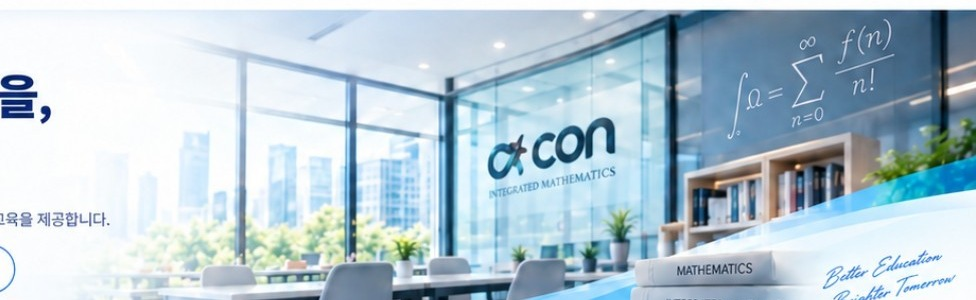
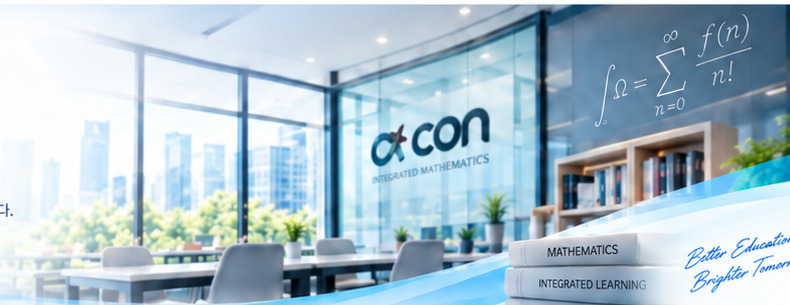
Add files via upload

diff --git a/style.css b/style.css
@@ -6,9 +6,9 @@ a{text-decoration:none;color:inherit}
 .wrap{width:min(1440px,92%);margin:0 auto}
 
 .topbar{position:sticky;top:0;z-index:100;background:rgba(255,255,255,.98);border-bottom:1px solid #e6edf6}
-.nav{height:72px;display:flex;align-items:center;gap:28px}
-.logo{width:170px;flex:0 0 auto}
-.logo img{width:100%;height:auto}
+.nav{min-height:78px;display:flex;align-items:center;gap:22px}
+.logo{display:flex;align-items:center;flex:0 0 auto;min-width:175px}
+.logo img{height:58px;width:auto;max-width:100%;object-fit:contain}
 .menu{margin-left:auto;display:flex;align-items:center;gap:34px;font-size:15px;font-weight:800;white-space:nowrap}
 .menu a:hover{color:#0b82e9}
 .account{display:flex;gap:10px;margin-left:18px}
@@ -19,10 +19,8 @@ a{text-decoration:none;color:inherit}
 .btn.ghost:hover,.btn.outline:hover{background:#f0f8ff}
 
 .hero{position:relative;min-height:355px;overflow:hidden;background:#f9fcff}
-.hero-photo{position:absolute;right:0;top:0;width:70%;height:100%;background:
-linear-gradient(90deg,#fff 0%,rgba(255,255,255,.86) 18%,rgba(255,255,255,.28) 52%,rgba(255,255,255,.02) 100%),
-url("hero-classroom.jpg") center/cover no-repeat}
-.hero-inner{position:relative;z-index:3;padding-top:28px}
+.hero-photo{position:absolute;right:0;top:0;width:69%;height:100%;background:linear-gradient(90deg,#fff 0%,rgba(255,255,255,.88) 15%,rgba(255,255,255,.32) 45%,rgba(255,255,255,.04) 100%),url("hero-classroom.jpg") center center/cover no-repeat}
+.hero-inner{position:relative;z-index:3;padding-top:28px;padding-bottom:58px}
 .hero-copy{max-width:650px}
 .eyebrow{margin:0 0 12px;color:#0a5bb3;font-size:18px;font-weight:800}
 .hero h1{margin:0;font-size:52px;line-height:1.13;letter-spacing:-.05em;color:#0b3279}
@@ -53,35 +51,35 @@ url("hero-classroom.jpg") center/cover no-repeat}
 .more span{font-size:18px;line-height:1}
 
 .card-grid{display:grid;grid-template-columns:repeat(4,1fr);gap:16px}
-.card{position:relative;border:1px solid #dce7f2;background:#fff;border-radius:10px;overflow:hidden;box-shadow:0 6px 18px rgba(22,66,120,.05)}
-.card img{width:100%;height:90px;object-fit:cover}
-.card-body{position:relative;padding:12px 16px 14px;min-height:92px}
-.card h3{margin:0 0 6px;font-size:18px}
+.card{position:relative;border:1px solid #dce7f2;background:#fff;border-radius:14px;overflow:hidden;box-shadow:0 6px 18px rgba(22,66,120,.05);display:flex;flex-direction:column}
+.card img{width:100%;height:112px;object-fit:cover;object-position:center center;background:#eef6ff}
+.card-body{position:relative;padding:14px 16px 16px;min-height:108px}
+.card h3{margin:0 0 6px;font-size:18px;color:#113b7c}
 .card p{margin:0;color:#5f7393;font-size:13px;line-height:1.45}
 .circle-arrow{position:absolute;right:13px;bottom:15px;width:31px;height:31px;border:1px solid #6fb9f5;color:#0a78db;border-radius:50%;display:grid;place-items:center;font-size:22px}
-.partner img{height:120px}
-.subject-badge{position:absolute;left:16px;top:83px;width:54px;height:54px;border-radius:50%;display:grid;place-items:center;color:#fff;font-weight:900;border:5px solid #fff;box-shadow:0 3px 10px rgba(0,0,0,.05)}
+.partner img{height:132px;object-position:center}
+.subject-badge{position:absolute;left:16px;top:98px;width:54px;height:54px;border-radius:50%;display:grid;place-items:center;color:#fff;font-weight:900;border:5px solid #fff;box-shadow:0 3px 10px rgba(0,0,0,.05)}
 .subject-badge.blue{background:#2489ee}
 .subject-badge.green{background:#26b99c}
 .subject-badge.purple{background:#8256e3}
 .subject-badge.orange{background:#f48742}
-.partner .card-body{padding-top:27px;min-height:116px}
+.partner .card-body{padding-top:32px;min-height:120px}
 
 .news{padding-bottom:28px}
-.seminar-row{display:grid;grid-template-columns:1fr 190px 260px;align-items:center;min-height:108px;border:1px solid #dbe6f1;border-radius:11px;background:#f9fcff;overflow:hidden}
+.seminar-row{display:grid;grid-template-columns:1fr 190px 260px;align-items:center;min-height:118px;border:1px solid #dbe6f1;border-radius:11px;background:#f9fcff;overflow:hidden}
 .seminar-left{display:flex;align-items:center;gap:18px;padding:16px 20px}
 .people-icon{font-size:42px;color:#087fe9}
-.seminar-head{display:flex;align-items:center;gap:10px}
+.seminar-head{display:flex;align-items:center;gap:10px;flex-wrap:wrap}
 .seminar-head h3{margin:0;font-size:21px}
 .tag{background:#e6f4ff;color:#0878df;font-size:11px;font-weight:800;padding:5px 10px;border-radius:999px}
 .seminar-left p{margin:8px 0 0;color:#51698f;font-size:13px}
 .seminar-left .address{font-size:12px;color:#6d82a2}
 .reserve{justify-self:center;border-radius:8px}
-.seminar-row>img{width:100%;height:108px;object-fit:cover}
+.seminar-row>img{width:100%;height:118px;object-fit:cover;object-position:center}
 
 footer{background:#fff;border-top:1px solid #e5edf6}
-.footer-row{min-height:74px;display:flex;align-items:center;gap:30px;font-size:13px;color:#61789a}
-.footer-logo{width:120px}
+.footer-row{min-height:80px;display:flex;align-items:center;gap:26px;font-size:13px;color:#61789a}
+.footer-logo{width:132px;height:auto}
 .foot-item strong{color:#143a77;font-size:16px}
 .hours{margin-left:8px}
 .hours span,.foot-links span{margin:0 8px;color:#b7c3d3}
@@ -103,11 +101,12 @@ footer{background:#fff;border-top:1px solid #e5edf6}
 }
 @media(max-width:720px){
   .wrap{width:min(94%,680px)}
-  .nav{height:64px}
-  .logo{width:130px}
+  .nav{min-height:64px}
+  .logo{min-width:140px}
+  .logo img{height:48px}
   .account .btn{padding:9px 12px;font-size:12px}
   .hero{min-height:500px}
-  .hero-photo{width:100%;opacity:.25;background-position:center}
+  .hero-photo{width:100%;opacity:.24;background-position:center}
   .hero-inner{padding-top:34px}
   .hero h1{font-size:39px}
   .hero-sub br{display:none}
